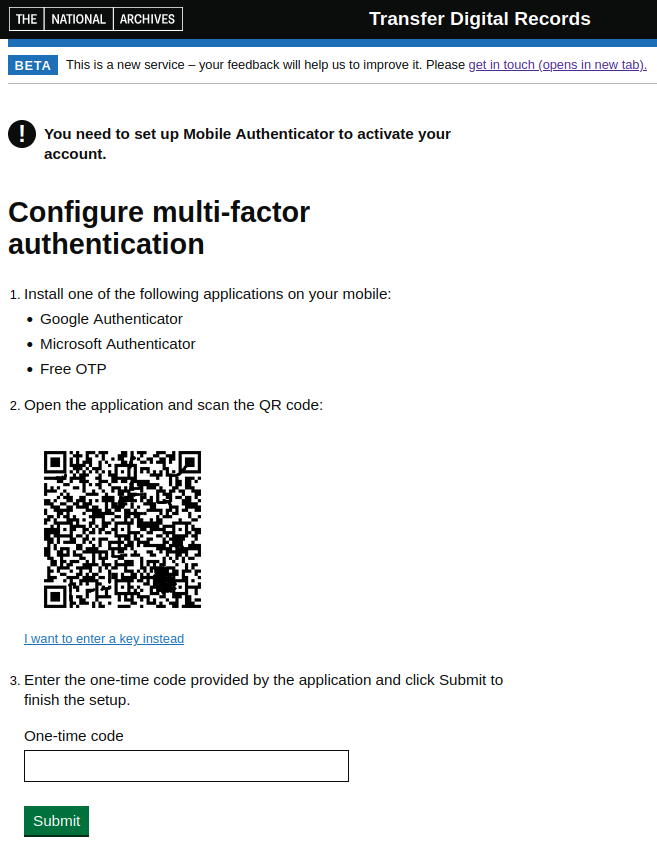
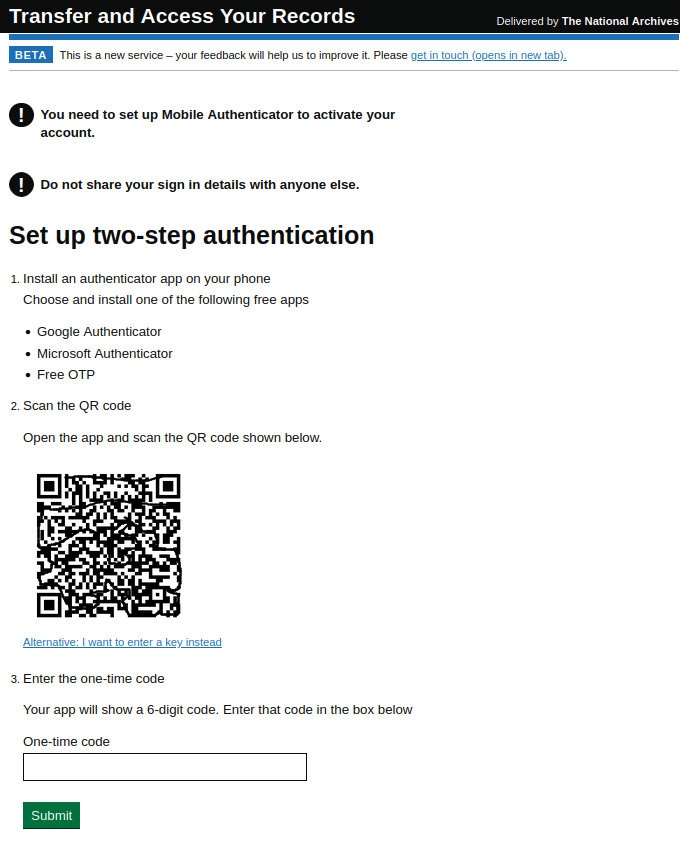
TDRD-598 update guide with mfa changes (#4294)

Changed region(s): [[0.0, 0.1224, 0.7002, 0.7647], [0.0, 0.0, 1.0, 0.0918], [0.0304, 0.7953, 0.761, 1.0]]

diff --git a/app/views/judgment/judgmentHelp.scala.html b/app/views/judgment/judgmentHelp.scala.html
@@ -13,8 +13,8 @@
             <li>
               <a href="#register-new-account">Registering for a new account</a>
               <ul class="govuk-list govuk-list--bullet">
-                <li><a href="#new-user-email">New user email</a></li>
-                <li><a href="#two-step-auth">Set up your OTP account for multi-factor authentication</a></li>
+                <li><a href="#new-user-email">Requesting a new account</a></li>
+                <li><a href="#two-step-auth">How to set up your OTP (one time password)</a></li>
                 <li><a href="#set-pass">Set your password</a></li>
               </ul>
             </li>
@@ -81,47 +81,68 @@
         </p>
 
         <h2 class="govuk-heading-m" id="register-new-account">Registering for a new account</h2>
-        <h3 class="govuk-heading-s" id="new-user-email">Part 1: New user email</h3>
+        <h3 class="govuk-heading-s" id="new-user-email">Part 1: Requesting a new account</h3>
         <ol class="govuk-body">
           <li>
-            If your department has not requested a new account registration for you, you can register for a new TDR account by emailing <a href="mailto:@Messages("nationalArchives.email")">
-            @Messages("nationalArchives.email")</a>
-            from your work email account. In the email you should ask to register as a new user, stating clearly your first name and surname. Allow up to two working days for your request to be processed. </li>
+            If your department has not already requested an account for you, you can register by emailing <a href="mailto:@Messages("nationalArchives.email")">
+            @Messages("nationalArchives.email")</a> from your work email. In your email, clearly state your first name and surname, and ask to register as a new user.
+              It may take up to 2 working days for your request to be processed.
+          </li>
           <li>
-            Once your account is validated, you will be sent an email with the subject <span class="govuk-!-font-weight-bold">"Register for your Transfer Digital Records (TDR) account - ACTION REQUIRED"</span> which contains important registration instructions.</li>
+            Once your account is ready, you'll receive an email with the subject <span class="govuk-!-font-weight-bold">"Register for your Transfer Digital Records (TDR) account - ACTION REQUIRED"</span>. This email will include important instructions on how to complete your registration.
+          </li>
           <li>
-            You will receive an email shortly after with the subject <span class="govuk-!-font-weight-bold">"Update Your Account"</span>, containing <span class="govuk-!-font-weight-bold">a link that expires after 12 hours.</span> Click the link before it expires to begin your registration. <em>If your link expires before you can use it, email <a href="mailto:@Messages("nationalArchives.email")">@Messages("nationalArchives.email")</a> and request a new registration link.</em></li>
+            In addition, you’ll get another email with the subject <span class="govuk-!-font-weight-bold">"Update Your Account"</span>, which will contain a link. The link will expire in 12 hours, so click it as soon as possible to start your registration. If the link expires, email <a href="mailto:@Messages("nationalArchives.email")">@Messages("nationalArchives.email")</a> to ask for a new one.
+          </li>
           <li>The registration link will take you to this page:</li>
           <img src="@routes.Assets.versioned("images/configure-otp-password-page.png")" class="screenshots" alt="Sign in page with a link to setup MFA and password" />
-          <li>
-            Click on the <span class="govuk-!-font-weight-bold">"Configure OTP, Update Password"</span> link to set up your 'one-time password' (OTP) code, sometimes referred to as 'one-time PIN', to securely sign in using two-step authentication.</li>
         </ol>
 
-        <h3 class="govuk-heading-s" id="why-otp">What is OTP and why do I need to use it?</h3>
+        <h3 class="govuk-heading-s" id="why-otp">What is two-step authentication and why do I need to use an OTP?</h3>
         <p class="govuk-body">
-          A 'one-time password' (OTP) code is a unique generated code that confirms who you are. An OTP code is generated in an authenticator app. Free authenticator apps can be downloaded onto your smartphone, such as Google Authenticator, Microsoft Authenticator, or FreeOTP. Other authenticators are available. Free-to-download apps are available from the App Store for iPhone, or 'Google Play' and 'Play Store' for Android.
+          An OTP (one-time password) is a unique code that confirms your identity. It’s generated by an authenticator app on your smartphone. You can download free authenticator apps like Google Authenticator, Microsoft Authenticator, or FreeOTP. These apps are available on the App Store for iPhone, or Google Play for Android.
         </p>
         <p class="govuk-body">
-          To keep the service and your account secure, you must sign in to your account using an OTP in addition to your personal password.
+          To keep the service and your account secure, you must sign in to your TDR account using an OTP in addition to your personal password.
         </p>
 
-        <h3 class="govuk-heading-s" id="two-step-auth">Part 2: Two-step authentication</h3>
+        <h3 class="govuk-heading-s" id="two-step-auth">Part 2: How to set up your OTP (one time password)</h3>
         <p class="govuk-body">
-          Clicking the "Configure OTP, Update Password" link will take you to the <span class="govuk-!-font-weight-bold">"Configure multi-factor authentication"</span> page:
+          After clicking the <span class="govuk-!-font-weight-bold">"Configure OTP, Update Password"</span> link, you’ll be taken to the <span class="govuk-!-font-weight-bold">"Set up two-step authentication"</span> page.
         </p>
         <img src="@routes.Assets.versioned("images/set-up-mfa-page.png")" class="screenshots" alt="Form to setup multi factor authentication" />
-        <p class="govuk-body">First you must ensure you have installed an authenticator app onto your smartphone before proceeding.</p>
-        <p class="govuk-body">To set up your app for use with TDR, open your authenticator app on your mobile and create a new TDR account using the QR displayed on your screen</p>
-        <ul class="govuk-body">
-          <li>For Google Authenticator, click on the first option 'Scan a QR code'.</li>
-          <li>
-            For Microsoft Authenticator, first click on the '+' icon to add an account. You might need to click on the three little dots in the top right corner to have this option displayed. Then select "Other (Google, Facebook, etc.)" to access the QR scanner.
-          </li>
-          <li>For Free OTP, click on the QR code icon located in the top banner of your smartphone screen.</li>
-        </ul>
-        <p class="govuk-body">Scan the QR code displayed on your computer screen and your app will automatically create a unique OTP account to use with TDR. You should now see a 6-digit code that will refresh at regular intervals.</p>
-        <p class="govuk-body">In the "One-time code" box, type in the six digits <u>without a space</u>, ensuring that you have enough time to complete this page before the code refreshes (usually every 30 to 60 seconds).</p>
-        <p class="govuk-body">Click "Submit" <u>before</u> the code expires in the app.</p>
+        <h3 class="govuk-heading-s">Step 1: Install an authenticator app</h3>
+        <p class="govuk-body">
+        Before you continue, make sure you have an authenticator app installed on your smartphone. You can use apps like Google Authenticator, Microsoft Authenticator, or FreeOTP.
+        </p>
+        <h3 class="govuk-heading-s">Step 2: Set up your authenticator app</h3>
+        <p class="govuk-body">
+          Open the authenticator app on your smartphone.
+        </p>
+        <p class="govuk-body">
+          Create a new account in the app by scanning the QR code displayed on your computer screen.
+        </p>
+        <p class="govuk-body">
+          For Google Authenticator: Choose "Scan a QR code".
+        </p>
+        <p class="govuk-body">
+          For Microsoft Authenticator: Tap the '+' icon to add a new account. If you can’t see this, tap the three dots in the top right corner. Then select "Other (Google, Facebook, etc.)" to open the QR scanner.
+        </p>
+        <p class="govuk-body">
+          For FreeOTP: Tap the QR code icon at the top of your screen.
+        </p>
+
+        <p class="govuk-body">
+          Once you’ve scanned the QR code, the app will create a unique account to use with TDR and display a 6-digit code that refreshes regularly.
+        </p>
+        <h3 class="govuk-heading-s">Step 3: Enter the code</h3>
+        <p class="govuk-body">
+          Enter the 6-digit code from your app into the "One-time code" box on your computer without spaces.
+          Make sure you enter the code before it refreshes (every 30 to 60 seconds).
+        </p>
+        <p class="govuk-body">
+          Click "Submit" before the code changes in the app.
+        </p>
 
         <h3 class="govuk-heading-s" id="set-pass">Part 3: Set your password</h3>
         <p class="govuk-body">

diff --git a/app/views/help.scala.html b/app/views/help.scala.html
@@ -21,8 +21,8 @@
                     </ul>
                     <li><a href="#registering-new-account">Registering for a new account</a></li>
                     <ul class="govuk-list govuk-list--bullet">
-                        <li><a href="#new-user-email">New user email</a></li>
-                        <li><a href="#set-up-two-step-auth">Set up your OTP account for Multi-Factor Authentication</a></li>
+                        <li><a href="#new-user-email">Requesting a new account</a></li>
+                        <li><a href="#set-up-two-step-auth">How to set up your OTP (one time password)</a></li>
                         <li><a href="#set-password">Set your password</a></li>
                     </ul>
                     <li><a href="#using-existing-account-holder">Using the service as an existing account holder</a></li>
@@ -173,46 +173,67 @@
             </ul>
             
             <h2 class="govuk-heading-m" id="registering-new-account">Registering for a new account</h2>
-            <h3 class="govuk-heading-s" id="new-user-email">Part 1: New user email</h3>
-            <ol class="govuk-list govuk-list--number">
-                <li>If you want to register for a new TDR account, email <a href="mailto:@Messages("nationalArchives.email")">@Messages("nationalArchives.email")</a> from your work email account and ask to register as a new user, stating clearly your first name and surname.
-                    Allow up to two working days for your request to be processed.</li>
-                <li>Once validated, you will be sent an email with the subject 'Register for your Transfer Digital Records (TDR) account - ACTION REQUIRED' which contains important registration instructions.</li>
-                <li>Shortly after, you will receive an email with the subject 'Update Your Account', containing a link that expires after 12 hours.
-                    Please click the link before it expires to begin your registration.
-                    <span class="govuk-!-font-weight-bold">If your link has expired before you could use it, email <a href="mailto:@Messages("nationalArchives.email")">@Messages("nationalArchives.email")</a> and request a new registration link.</span></li>
-                <li>The link will take you to this page:</li>
+            <h3 class="govuk-heading-s" id="new-user-email">Part 1: Requesting a new account</h3>
+            <ol class="govuk-body">
+                <li>
+                    If your department has not already requested an account for you, you can register by emailing <a href="mailto:@Messages("nationalArchives.email")">
+                @Messages("nationalArchives.email")</a> from your work email. In your email, clearly state your first name and surname, and ask to register as a new user.
+                    It may take up to 2 working days for your request to be processed.
+                </li>
+                <li>
+                    Once your account is ready, you'll receive an email with the subject <span class="govuk-!-font-weight-bold">"Register for your Transfer Digital Records (TDR) account - ACTION REQUIRED"</span>. This email will include important instructions on how to complete your registration.
+                </li>
+                <li>
+                    In addition, you’ll get another email with the subject <span class="govuk-!-font-weight-bold">"Update Your Account"</span>, which will contain a link. The link will expire in 12 hours, so click it as soon as possible to start your registration. If the link expires, email <a href="mailto:@Messages("nationalArchives.email")">@Messages("nationalArchives.email")</a> to ask for a new one.
+                </li>
+                <li>The registration link will take you to this page:</li>
                 <img src="@routes.Assets.versioned("images/configure-otp-password-page.png")" class="screenshots" alt="Sign in page with a link to setup MFA and password" />
-                <li>Click on the 'Configure OTP, Update Password' link to set up using a 'One-time passcode' (OTP), sometimes referred to as 'One-time PIN', for secure sign in using Multi-Factor Authentication (MFA).</li>
             </ol>
 
-            <h3 class="govuk-heading-s" id="set-up-two-step-auth">Part 2: Set up your OTP account for Multi-Factor Authentication</h3>
+            <h3 class="govuk-heading-s" id="why-otp">What is two-step authentication and why do I need to use an OTP?</h3>
             <p class="govuk-body">
-                Click the 'Configure OTP, Update Password' link to go to the 'Sign in to your account' page:
+                An OTP (one-time password) is a unique code that confirms your identity. It’s generated by an authenticator app on your smartphone. You can download free authenticator apps like Google Authenticator, Microsoft Authenticator, or FreeOTP. These apps are available on the App Store for iPhone, or Google Play for Android.
+            </p>
+            <p class="govuk-body">
+                To keep the service and your account secure, you must sign in to your TDR account using an OTP in addition to your personal password.
+            </p>
+
+            <h3 class="govuk-heading-s" id="set-up-two-step-auth">Part 2: How to set up your OTP (one time password)</h3>
+            <p class="govuk-body">
+                After clicking the <span class="govuk-!-font-weight-bold">"Configure OTP, Update Password"</span> link, you’ll be taken to the <span class="govuk-!-font-weight-bold">"Set up two-step authentication"</span> page.
             </p>
             <img src="@routes.Assets.versioned("images/set-up-mfa-page.png")" class="screenshots" alt="Form to setup multi-factor authentication" />
+            <h3 class="govuk-heading-s">Step 1: Install an authenticator app</h3>
             <p class="govuk-body">
-                First, you must ensure you have installed an authenticator app onto a smartphone that is available to you before proceeding.
+                Before you continue, make sure you have an authenticator app installed on your smartphone. You can use apps like Google Authenticator, Microsoft Authenticator, or FreeOTP.
+            </p>
+            <h3 class="govuk-heading-s">Step 2: Set up your authenticator app</h3>
+            <p class="govuk-body">
+                Open the authenticator app on your smartphone.
             </p>
             <p class="govuk-body">
-                To set up your app for use with TDR, open your authenticator app on your smartphone to create a new TDR account using the QR displayed on your screen.
-            </p>
-            <ul class="govuk-list govuk-list--bullet">
-                <li>For Google Authenticator, click on the first option 'Scan a QR code'.</li>
-                <li>For Microsoft Authenticator, first click on the '+' icon.
-                    You might need to click on the three little dots in the top right corner to have this option displayed.
-                    Then select 'Other (Google, Facebook, etc.)' to access the QR scanner.</li>
-                <li>For Free OTP, click on the QR code icon located in the top banner of your smartphone screen.</li>
-            </ul>
-            <p class="govuk-body">
-                Scan the QR code displayed on your computer screen and your app will automatically create a unique OTP account to use with TDR.
-                You should now see a 6-digit code that will refresh at regular intervals.
+                Create a new account in the app by scanning the QR code displayed on your computer screen.
             </p>
             <p class="govuk-body">
-                In the 'One-time code' box, type in the six digits <span class="govuk-!-font-weight-bold">without a space</span>, ensuring that you have enough time to complete this page before the code refreshes every 30 to 60 seconds.
+                For Google Authenticator: Choose "Scan a QR code".
             </p>
             <p class="govuk-body">
-                Click 'Submit' <span class="govuk-!-font-weight-bold">before</span> the code used expires in the app.
+                For Microsoft Authenticator: Tap the '+' icon to add a new account. If you can’t see this, tap the three dots in the top right corner. Then select "Other (Google, Facebook, etc.)" to open the QR scanner.
+            </p>
+            <p class="govuk-body">
+                For FreeOTP: Tap the QR code icon at the top of your screen.
+            </p>
+
+            <p class="govuk-body">
+                Once you’ve scanned the QR code, the app will create a unique account to use with TDR and display a 6-digit code that refreshes regularly.
+            </p>
+            <h3 class="govuk-heading-s">Step 3: Enter the code</h3>
+            <p class="govuk-body">
+                Enter the 6-digit code from your app into the "One-time code" box on your computer without spaces.
+                Make sure you enter the code before it refreshes (every 30 to 60 seconds).
+            </p>
+            <p class="govuk-body">
+                Click "Submit" before the code changes in the app.
             </p>
 
             <h3 class="govuk-heading-s" id="set-password">Part 3: Set your password</h3>
